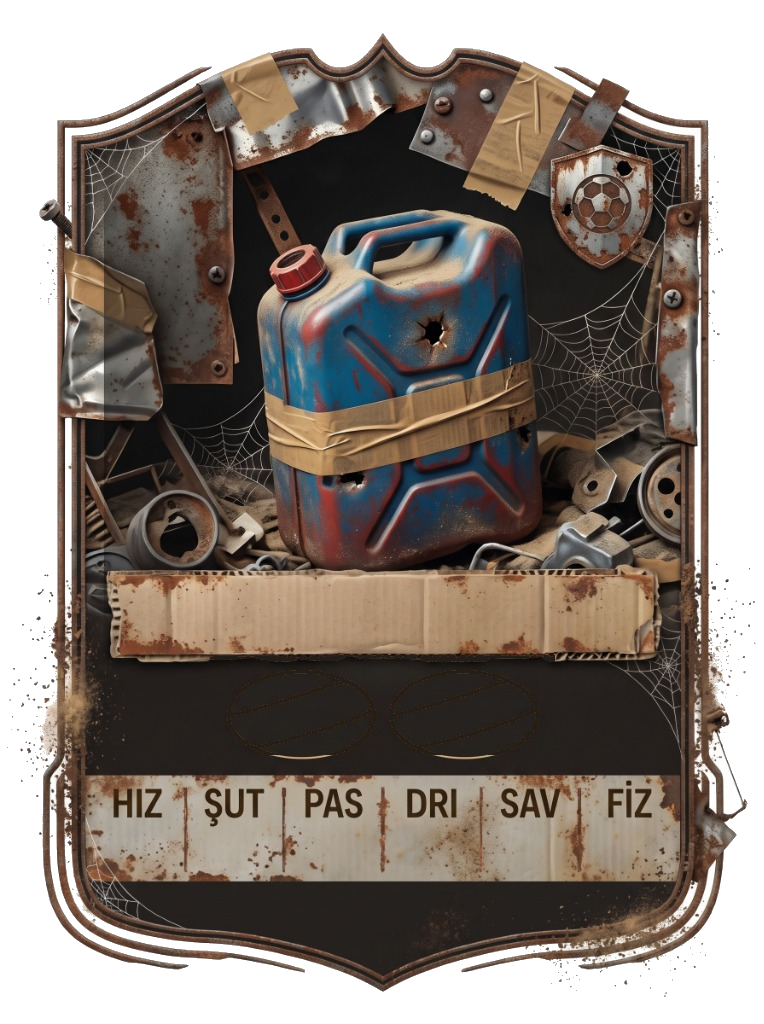
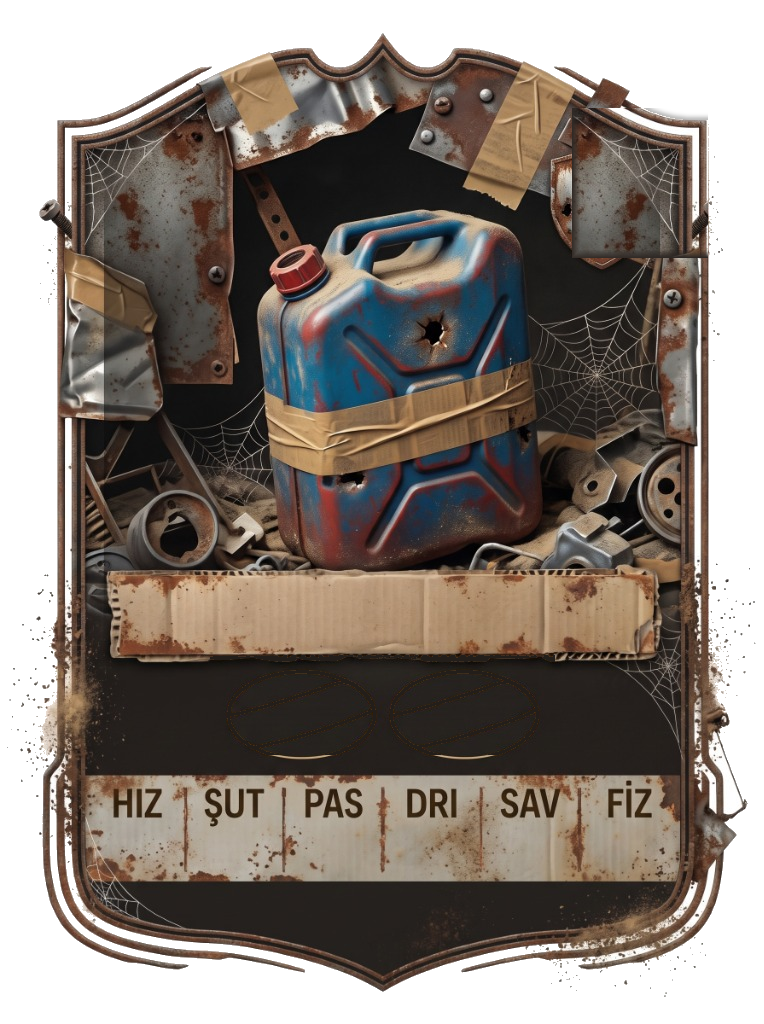
feat: render top-right shields as z-30 overlay for all themes with clean decuping and unbaked backgrounds

Changed region(s): [[0.7225, 0.0938, 0.9332, 0.25]]

diff --git a/src/components/card/FCCard.tsx b/src/components/card/FCCard.tsx
@@ -20,6 +20,15 @@ interface Props {
   showDownloadButton?: boolean;
 }
 
+const THEME_SHIELDS: Record<CardTheme, string> = {
+  gold: '/cards/gold_shield.png',
+  totw: '/cards/totw_shield.png',
+  inform: '/cards/inform_shield.png',
+  revir: '/cards/revir_shield.png',
+  legend: '/cards/legend_shield.png',
+  bidon: '/cards/bidon_shield.png',
+};
+
 export const FCCard: React.FC<Props> = ({
   player,
   overrideStats,
@@ -367,14 +376,12 @@ export const FCCard: React.FC<Props> = ({
           />
         </div>
 
-        {/* Sağ Üst Tema Kalkanı (Altın temasında overlay, diğer temalarda şablona gömülü) */}
-        {theme === 'gold' && (
-          <img
-            src="/cards/gold_shield.png"
-            alt="Golden Crest"
-            className={`absolute top-[13.5%] right-[14%] ${sizeConfig.shieldSize} object-contain pointer-events-none z-20 opacity-95 drop-shadow-md select-none`}
-          />
-        )}
+        {/* Sağ Üst Tema Kalkanı (Tüm temalarda en üst katman z-30 overlay) */}
+        <img
+          src={THEME_SHIELDS[theme]}
+          alt={`${theme} Crest`}
+          className={`absolute top-[13.0%] right-[13.5%] ${sizeConfig.shieldSize} object-contain pointer-events-none z-30 opacity-95 drop-shadow-md select-none`}
+        />
 
         {/* Oyuncu Adı ve Halı Saha Lakabı */}
         <div
